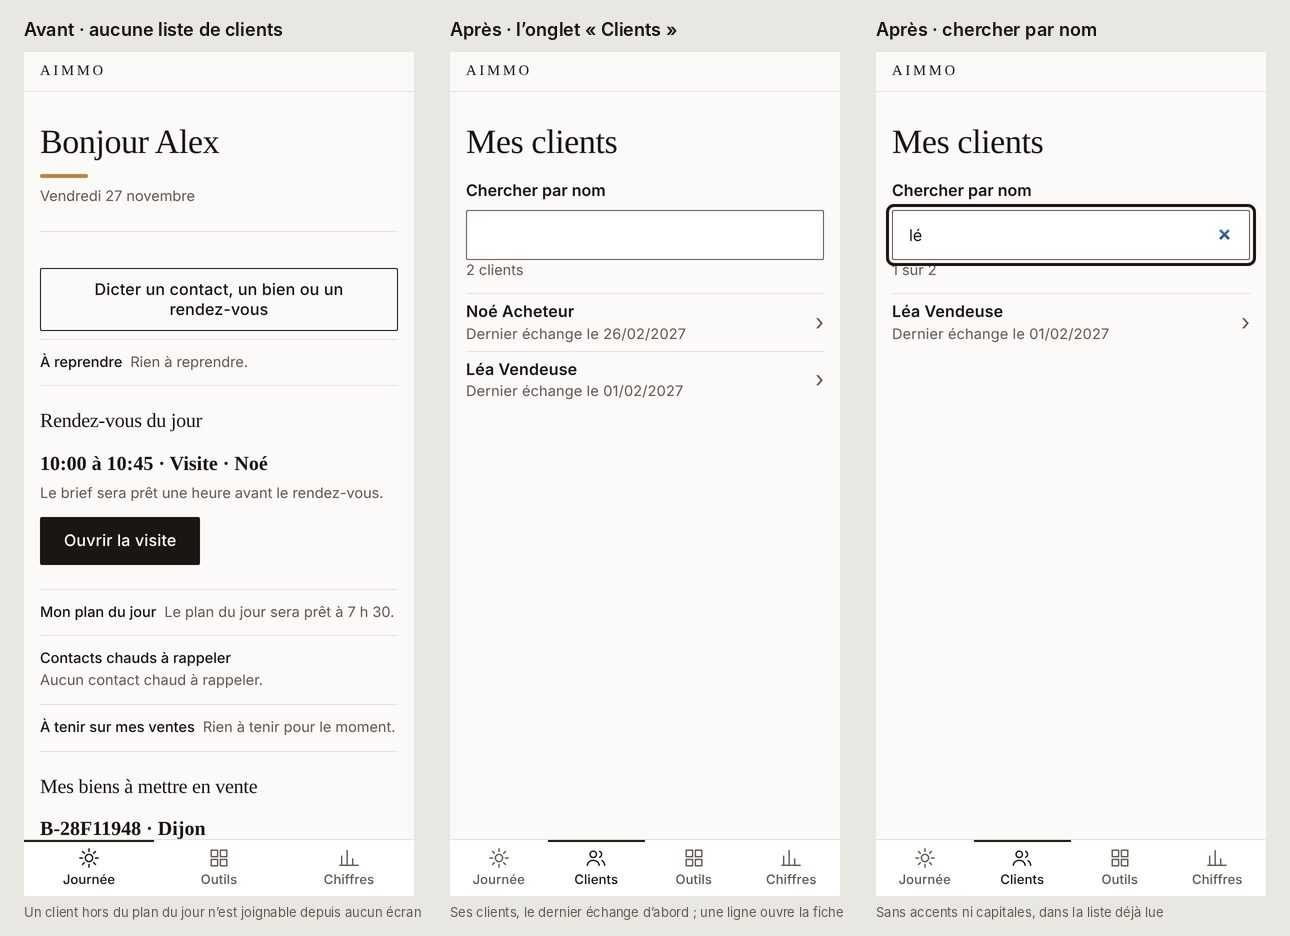
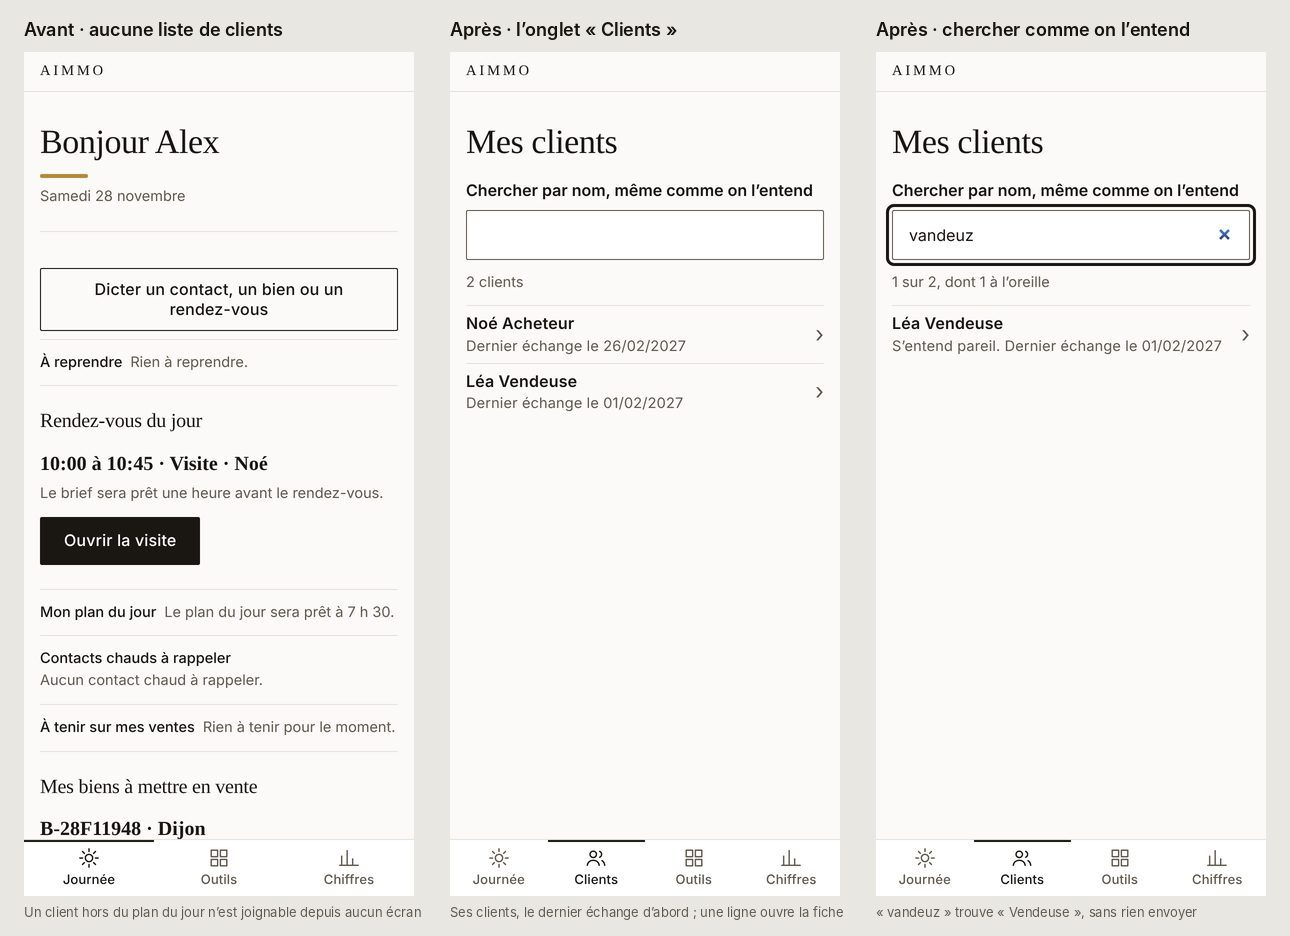
DS003 : chercher un client comme on l'entend
Claude-Session: https://claude.ai/code/session_01GVx7uWFL6AUCKvjQq7fqnM

diff --git a/packages/api/test/clients-app.test.ts b/packages/api/test/clients-app.test.ts
@@ -3,6 +3,7 @@ import { runInNewContext } from 'node:vm';
 import { afterAll, describe, expect, it } from 'vitest';
 import { BUDGETS, budgetProblems, htmlProblems } from '../../core/src/design/audit.ts';
 import { CLIENTS_SCRIPT } from '../app/clients.ts';
+import { OREILLE_JS } from '../app/oreille.ts';
 import { AGENT_APP_FILES, AGENT_APP_SHELL, handleAgentApp } from '../src/agent-app.ts';
 import { type FakeElement, fakeDocument, pageIds } from './fake-dom.ts';
 
@@ -148,6 +149,56 @@ describe('DS003 · l’agent a la liste de ses clients, et y cherche par nom', (
     await a.click(a.els.sortir!);
     expect(a.body().children).toHaveLength(0);
     expect(a.storage.get('aimmo.cle')).toBeUndefined();
+  });
+
+  it('Jamais vu · chercher un nom comme on l’entend : mal écrit, entendu au téléphone ou dicté, il se trouve, après les noms exacts et dit comme tel', async () => {
+    // Des noms inventés, courants, écrits comme l'état civil les écrit.
+    const heard = [person(1, 'Philippe', 'Dupont', '2026-11-20T08:00:00.000Z'), person(2, 'Jacques', 'Lefebvre', '2026-11-19T08:00:00.000Z'), person(3, 'Wanda', 'Kowalski', '2026-11-18T08:00:00.000Z'), person(4, 'Laurent', 'Martin', '2026-11-17T08:00:00.000Z'), person(5, 'Maëlle', 'Quentin', null), person(6, 'Martine', 'Dupond', null)];
+    const a = await run({ '/v1/fiches': ok(heard) });
+    await a.click(a.els['clients-ouvrir']!);
+    const notes = () => a.rows().map((li) => li.all().find((e) => e.className === 'doux')!.textContent);
+    // Écrit comme on l'a entendu : aucun nom ne contient ces lettres, la recherche à l'oreille le trouve.
+    for (const [typed, found] of [['filip', ['Philippe Dupont']], ['jack lefèvre', ['Jacques Lefebvre']], ['vanda kovalsqui', ['Wanda Kowalski']], ['lauran', ['Laurent Martin']], ['kantin', ['Maëlle Quentin']], ['FILIP DUPON', ['Philippe Dupont']]] as const) {
+      await a.type(typed);
+      expect(a.names(), typed).toEqual(found);
+      expect(a.count(), typed).toBe('1 sur 6, dont 1 à l’oreille');
+      expect(notes()[0], typed).toMatch(/^S’entend pareil\. /);
+    }
+    // Un nom exact passe d'abord, sans la mention ; celui qui s'entend pareil vient après, avec elle.
+    await a.type('dupond');
+    expect(a.names()).toEqual(['Martine Dupond', 'Philippe Dupont']);
+    expect(a.count()).toBe('2 sur 6, dont 1 à l’oreille');
+    expect(notes().map((n) => n.startsWith('S’entend pareil. '))).toEqual([false, true]);
+    // La recherche exacte reste ce qu'elle était : elle ne perd rien, et ne dit rien de l'oreille quand elle suffit.
+    await a.type('martin');
+    expect(a.names()).toEqual(['Laurent Martin', 'Martine Dupond']);
+    expect(a.count()).toBe('2 sur 6');
+    // Moins de trois lettres : pas d'oreille, pour ne pas tout rapprocher.
+    await a.type('fi');
+    expect(a.names()).toEqual([]);
+    expect(a.count()).toBe('Aucun client à ce nom.');
+    // Rien ne part au serveur : tout se fait dans la liste déjà lue.
+    expect(a.reads()).toBe(1);
+    // Le champ dit ce qu'il sait faire.
+    const label = a.body().all().find((e) => e.tagName === 'label')!;
+    expect(label.textContent).toBe('Chercher par nom, même comme on l’entend');
+    expect(label.attributes.for).toBe('clients-chercher');
+  });
+
+  it('Jamais vu · la clé « à l’oreille » : les écritures d’un même son se rejoignent, des noms différents restent différents', () => {
+    const { sound, heardIn } = runInNewContext(`(function () {${OREILLE_JS}; return { sound: sound, heardIn: heardIn }; })()`) as { sound: (text: string) => string; heardIn: (key: string, typed: string) => boolean };
+    const same: [string, string][] = [['Dupont', 'dupond'], ['Durand', 'durant'], ['Philippe', 'filip'], ['Kowalski', 'kovalsqui'], ['Wozniak', 'vozniak'], ['Laurent', 'lauran'], ['Jean', 'jan'], ['Martin', 'martain'], ['Lefebvre', 'lefèvre'], ['Jacques', 'jack'], ['Charles', 'charle'], ['Georges', 'jorje'], ['Quetigny', 'kétini'], ['Chenôve', 'chenove'], ['Thomas', 'toma'], ['Leroy', 'leroi'], ['Christian', 'kristian'], ['Gauthier', 'gotier'], ['Rousseau', 'rousso'], ['Schmitt', 'chmit'], ['Marchand', 'marchan'], ['Françoise', 'fransoise'], ['Exemple', 'exanple']];
+    for (const [written, heard] of same) expect(sound(written), `${written} / ${heard}`).toBe(sound(heard));
+    const apart: [string, string][] = [['Martin', 'marin'], ['Dupont', 'durand'], ['Petit', 'perrin'], ['Bruno', 'bruni'], ['Léa', 'lou'], ['Moreau', 'morel']];
+    for (const [x, y] of apart) expect(sound(x), `${x} / ${y}`).not.toBe(sound(y));
+    // Ce qui est tapé s'entend au début d'un mot : « lefev » dans « Jacques Lefebvre », pas au milieu d'un autre.
+    const key = sound('Jacques Lefebvre');
+    for (const typed of ['lefev', 'jack', 'jak lefèvre', 'Lefèvre']) expect(heardIn(key, typed), typed).toBe(true);
+    for (const typed of ['febvre', 'le', 'ja', 'lefebvre 2', 'jacques@', '']) expect(heardIn(key, typed), typed).toBe(false);
+    // Rien de vide ni d'étrange ne casse la clé ; un texte reçu reste un texte.
+    expect(sound('')).toBe('');
+    expect(sound(INJECTED)).toMatch(/^[a-z ]*$/);
+    expect(OREILLE_JS).not.toMatch(/fetch|XMLHttpRequest|send\(|innerHTML/);
   });
 
   it('une longue liste : cinquante lignes, puis la suite par cinquante ; chercher repart du début', async () => {

diff --git a/packages/api/app/clients.ts b/packages/api/app/clients.ts
@@ -1,3 +1,5 @@
+import { OREILLE_JS } from './oreille.ts';
+
 /**
  * L'écran « Clients » de l'application de l'agent (DS003), en morceaux posés dans `fichiers.ts` : son onglet, sa
  * section de page, son chargeur, et son script servi à part (`/app/clients.js`), chargé à la première ouverture pour
@@ -40,34 +42,38 @@ export const CLIENTS_SCRIPT = `'use strict';
 globalThis.AIMMO_CLIENTS = function (t) {
   var $ = t.$, el = t.el, clear = t.clear;
   var ID = /^[A-Za-z0-9-]{1,64}$/, STEP = 50;
-  var all = [], shown = STEP, query = '', list = null, count = null;
+  var all = [], keys = [], shown = STEP, query = '', list = null, count = null;
   /* Chercher sans tenir compte des accents ni des capitales : « elodie » trouve « Élodie ». */
   function plain(s) { return String(s || '').normalize('NFD').replace(/[\\u0300-\\u036f]/g, '').toLowerCase(); }
   function nameOf(p) { return ((p.first_name || '') + ' ' + (p.last_name || '')).trim() || 'Sans nom'; }
-  function row(p) {
+${OREILLE_JS}
+  function row(p, heard) {
     var b = list.appendChild(el('li')).appendChild(t.button('', function () { t.openFiche(p.id); }));
     b.className = 'secondaire rangee';
     var text = b.appendChild(el('span'));
     text.appendChild(el('strong', nameOf(p)));
     var day = p.last_contact_at ? t.date(p.last_contact_at) : '';
-    text.appendChild(el('span', day ? 'Dernier échange le ' + day : 'Aucun échange noté', 'doux'));
+    text.appendChild(el('span', (heard ? 'S’entend pareil. ' : '') + (day ? 'Dernier échange le ' + day : 'Aucun échange noté'), 'doux'));
   }
   function draw() {
     var q = plain(query).trim();
-    var found = q ? all.filter(function (p) { return plain(nameOf(p)).indexOf(q) !== -1; }) : all;
+    var exact = q ? all.filter(function (p) { return plain(nameOf(p)).indexOf(q) !== -1; }) : all;
+    /* « À l'oreille » : un nom entendu ou dicté se trouve même mal écrit. Après les noms exacts, et dit comme tel. */
+    var heard = q ? all.filter(function (p, i) { return exact.indexOf(p) < 0 && heardIn(keys[i], query.trim()); }) : [];
+    var found = exact.concat(heard);
     clear(list);
-    found.slice(0, shown).forEach(row);
+    found.slice(0, shown).forEach(function (p, i) { row(p, i >= exact.length); });
     if (found.length > shown) {
       var rest = found.length - shown;
       var more = list.appendChild(el('li')).appendChild(t.button('Voir la suite : ' + rest + (rest > 1 ? ' autres' : ' autre'), function () { shown += STEP; draw(); }));
       more.className = 'secondaire';
     }
-    count.textContent = !all.length ? 'Aucun client pour le moment.' : !found.length ? 'Aucun client à ce nom.' : q ? found.length + ' sur ' + all.length : all.length + (all.length > 1 ? ' clients' : ' client');
+    count.textContent = !all.length ? 'Aucun client pour le moment.' : !found.length ? 'Aucun client à ce nom.' : q ? found.length + ' sur ' + all.length + (heard.length ? ', dont ' + heard.length + ' à l’oreille' : '') : all.length + (all.length > 1 ? ' clients' : ' client');
   }
   function build() {
     var body = $('clients-corps');
     clear(body);
-    var label = body.appendChild(el('label', 'Chercher par nom'));
+    var label = body.appendChild(el('label', 'Chercher par nom, même comme on l’entend'));
     label.setAttribute('for', 'clients-chercher');
     var input = body.appendChild(el('input'));
     input.setAttribute('id', 'clients-chercher');
@@ -92,6 +98,7 @@ globalThis.AIMMO_CLIENTS = function (t) {
         var x = a.last_contact_at || '', y = b.last_contact_at || '';
         return x === y ? nameOf(a).localeCompare(nameOf(b), 'fr') : x < y ? 1 : -1;
       });
+      keys = all.map(function (p) { return sound(nameOf(p)); });
       shown = STEP;
       build();
       draw();
@@ -99,7 +106,7 @@ globalThis.AIMMO_CLIENTS = function (t) {
     });
   }
   /* Quitter l'onglet efface la liste ; la recherche en cours revient avec l'onglet, sauf à la fin de la session. */
-  function wipe(everything) { all = []; list = count = null; if (everything) query = ''; }
+  function wipe(everything) { all = []; keys = []; list = count = null; if (everything) query = ''; }
   return { open: open, wipe: wipe };
 };
 `;

diff --git a/packages/api/app/oreille.ts b/packages/api/app/oreille.ts
@@ -1,0 +1,41 @@
+/**
+ * « À l'oreille » : la clé d'un mot tel qu'il s'entend en français, pour chercher un nom ou une commune qu'on a
+ * entendu au téléphone ou dicté, sans savoir l'écrire. « Dupond », « Dupont » et « dupon » ont la même clé ; « filip »
+ * trouve « Philippe », « kétini » trouve « Quetigny ».
+ *
+ * Ce n'est ni une traduction ni une devinette : une suite fixe de remplacements, la même pour ce qui est tapé et pour
+ * ce qui est cherché, sans réseau et sans rien envoyer. Elle ne remplace pas la recherche exacte : elle s'y ajoute, et
+ * l'écran dit ce qu'elle a trouvé. Elle peut rapprocher deux noms qui s'entendent pareil ; elle n'écarte jamais un nom
+ * que la recherche exacte trouve.
+ *
+ * Le morceau est posé tel quel dans les scripts servis à part qui cherchent (`/app/clients.js`) : il ne pèse rien dans
+ * l'application [R201].
+ */
+export const OREILLE_JS = `
+  /* La clé d'un texte tel qu'il s'entend en français, mot par mot. */
+  function sound(text) {
+    return String(text || '').toLowerCase().replace(/ç/g, 's').replace(/œ/g, 'e').normalize('NFD').replace(/[\\u0300-\\u036f]/g, '').split(/[^a-z]+/).filter(Boolean).map(function (w) {
+      w = w.replace(/ph/g, 'f').replace(/sch|sh/g, 'ch').replace(/ch(?=[rl])/g, 'k').replace(/ch/g, 'C')
+        .replace(/cqu|ck|qu|q/g, 'k').replace(/c(?=[eiy])/g, 's').replace(/c/g, 'k')
+        .replace(/gn/g, 'n').replace(/dj/g, 'j').replace(/gu(?=[eiy])/g, 'G').replace(/ge(?=[ao])/g, 'j').replace(/g(?=[eiy])/g, 'j').replace(/G/g, 'g')
+        .replace(/bv/g, 'v').replace(/w/g, 'v').replace(/z/g, 's').replace(/x/g, 'ks').replace(/y/g, 'i')
+        .replace(/(?:ain|ein|aim)(?![aeiou])/g, 'in').replace(/ean(?![aeiou])/g, 'an').replace(/[ae][nm](?![aeiounm])/g, 'an').replace(/om(?=[bp])/g, 'on').replace(/im(?=[bp])/g, 'in')
+        .replace(/eau|au/g, 'o').replace(/ai|ei/g, 'e').replace(/oeu|eu/g, 'e').replace(/ou/g, 'u')
+        .replace(/h/g, '').replace(/C/g, 'ch').replace(/(.)\\1+/g, '$1');
+      /* Les lettres muettes de la fin : « Dupont », « Charles », « Jacques », « Philippe ». */
+      if (w.length > 2) w = w.replace(/e$/, '');
+      if (w.length > 2) w = w.replace(/[tdsp]$/, '');
+      if (w.length > 2) w = w.replace(/e$/, '');
+      return w;
+    }).join(' ');
+  }
+  /*
+   * Ce qui est tapé s'entend-il au début d'un mot de ce texte ? Seulement des lettres, et trois sons au moins : un
+   * chiffre ne s'entend pas, et deux lettres rapprocheraient tout.
+   */
+  function heardIn(key, typed) {
+    if (!/^[a-zà-ÿœ' -]+$/i.test(typed)) return false;
+    var said = sound(typed);
+    return said.replace(/ /g, '').length > 2 && (' ' + key).indexOf(' ' + said) !== -1;
+  }
+`;

diff --git a/docs/design/AUDIT.md b/docs/design/AUDIT.md
@@ -63,7 +63,7 @@ Chaque problème a son identifiant, sa gravité, sa catégorie et son effort (S 
 - Preuve : la coquille n'appelle que `/v1/contacts-chauds`, `/v1/rendez-vous/jour`, `/v1/plan-du-jour` et `/v1/fiches/<id>`. Au stade « rendez-vous pris » du parcours, la vendeuse qui vient d'écrire n'est joignable depuis aucun écran : elle n'est plus « chaude » et son rendez-vous n'est pas aujourd'hui.
 - Principe : le cahier promet à l'agent « ses clients, biens et dossiers » (onglet Le produit).
 - Solution : un onglet « Clients » avec recherche par nom, téléphone ou bien, et filtres (vendeurs, acquéreurs, à rappeler). Une recherche générale dans l'en-tête.
-- Suite : premier pas le 2026-11-27 : l'onglet « Clients », entre la journée et les outils. Il lit la liste des fiches de l'agent (`GET /v1/fiches`, les siens seulement, chaque lecture au journal, R16), le dernier échange d'abord ; un champ cherche par nom, sans accents ni capitales ; une ligne ouvre la fiche, dont le « Retour » ramène à la liste. Cinquante lignes, puis la suite. L'écran est servi à part, chargé au premier geste. Restent la recherche par téléphone ou par bien et les filtres (vendeurs, acquéreurs, à rappeler) : la liste ne rend ni les coordonnées ni les projets, il faut une route de recherche. Avant et après : `captures/avant-apres/DS003-clients.jpg`.
+- Suite : premier pas le 2026-11-27 : l'onglet « Clients », entre la journée et les outils. Il lit la liste des fiches de l'agent (`GET /v1/fiches`, les siens seulement, chaque lecture au journal, R16), le dernier échange d'abord ; un champ cherche par nom, sans accents ni capitales, et « à l'oreille » : un nom entendu au téléphone ou dicté se trouve même mal écrit (« filip dupon » trouve « Philippe Dupont »), après les noms exacts et dit comme tel (`packages/api/app/oreille.ts`, une suite fixe de remplacements, sans réseau) ; une ligne ouvre la fiche, dont le « Retour » ramène à la liste. Cinquante lignes, puis la suite. L'écran est servi à part, chargé au premier geste. Restent la recherche par téléphone ou par bien et les filtres (vendeurs, acquéreurs, à rappeler) : la liste ne rend ni les coordonnées ni les projets, il faut une route de recherche. Avant et après : `captures/avant-apres/DS003-clients.jpg`.
 
 #### DS004 · Aucune liste de biens
 - Gravité : bloquant · Catégorie : navigation · Effort : L

diff --git a/docs/design/README.md b/docs/design/README.md
@@ -30,7 +30,7 @@ L'agent a trois onglets, toujours là : Journée, Outils, Chiffres (`<nav id="on
 - Une lecture en panne ne s'écrit pas comme une aide : `down(zone d'état)` y pose un bandeau d'une ligne avec « Réessayer », qui relit l'écran (`reopen`, la journée par `home`). Le bandeau part avec le prochain message écrit dans la zone. Un rendu qui ne peut pas lire sa réponse rend une phrase commençant par « Indisponible » : elle passe par le même bandeau.
 - Le titre de la page suit l'écran : « Outils · AIMMO », « Mandat · REF-1 · AIMMO » (`retitle`). Jamais une personne : la fiche d'un client s'appelle « Fiche client », la journée « Ma journée ». Seuls les écrans d'un bien (liste `LIVE`) sont suivis quand leur titre se précise ; tout autre écran garde le titre écrit dans la page servie, même s'il y écrit ensuite un prénom. Un nouvel écran de bien s'ajoute à `LIVE` ; un écran de personne, jamais.
 - Un bien a son écran (`#un-bien`, `openPlace`) : la journée n'en montre qu'une ligne, entière à toucher (`<button class="secondaire rangee">` à deux lignes : ce qu'il est, puis sa référence et son état). Un nouvel outil d'un bien est une rangée de cet écran, jamais un bouton de plus sur la journée ; son « Retour » y ramène (`back`). Un bien se dit par ce qu'il est (`placeName`), sa référence en petit.
-- L'onglet « Clients » (`packages/api/app/clients.ts`, servi à part) liste les clients de l'agent, le dernier échange d'abord, avec un champ pour chercher par nom. Une ligne est une rangée entière à toucher. La liste s'efface quand on quitte l'onglet et avec la session ; rien n'est gardé sur l'appareil.
+- L'onglet « Clients » (`packages/api/app/clients.ts`, servi à part) liste les clients de l'agent, le dernier échange d'abord, avec un champ pour chercher par nom, exactement ou « à l'oreille » (`packages/api/app/oreille.ts` : `sound`, `heardIn`), pour un nom entendu ou dicté. Une ligne est une rangée entière à toucher. La liste s'efface quand on quitte l'onglet et avec la session ; rien n'est gardé sur l'appareil.
 - Biens aura son onglet avec sa liste (DS004).
 
 ## Ajouter un écran
